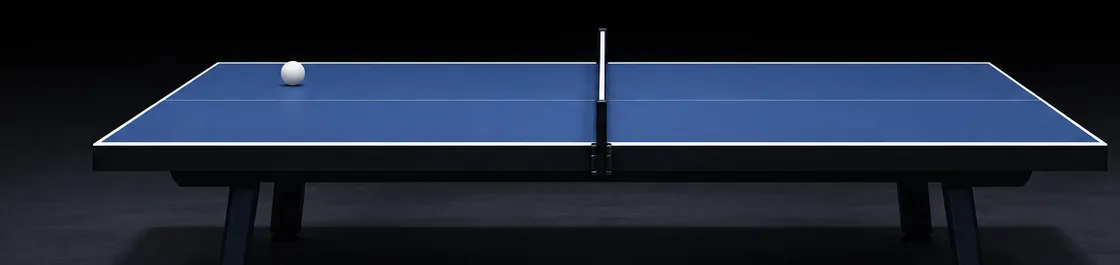
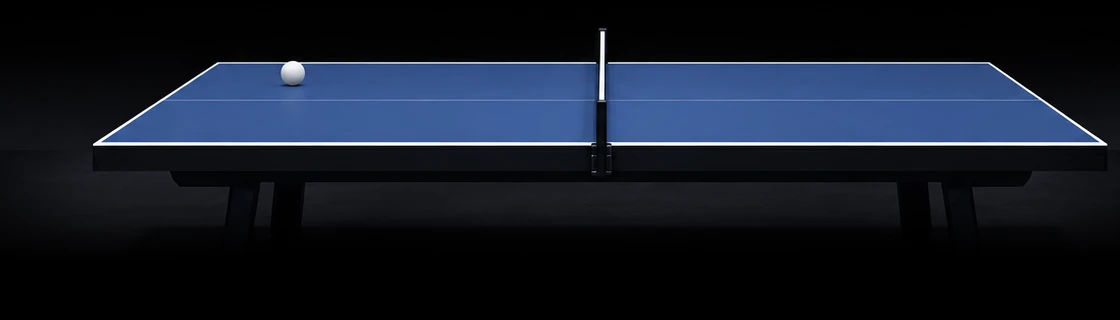
Fix spectator panel borders and table blending

diff --git a/src/views/game/GameSpectate.vue b/src/views/game/GameSpectate.vue
@@ -330,6 +330,7 @@ export default {
   align-items: stretch;
   margin-top: 14px;
   background: #11121a;
+  border: 1px solid #262833;
   border-radius: 14px;
   overflow: hidden;
 }
@@ -340,20 +341,17 @@ export default {
   display: flex;
   align-items: center;
   gap: 22px;
-  border: 1px solid transparent;
+  position: relative;
 }
 
 .spectate-player-home {
-  border-left: 3px solid transparent;
 }
 
 .spectate-player-away {
   justify-content: flex-end;
-  border-right: 3px solid transparent;
 }
 
 .spectate-player.is-serving {
-  border-color: rgba(38, 154, 71, 0.65);
   background: linear-gradient(
     90deg,
     rgba(38, 154, 71, 0.08),
@@ -367,6 +365,24 @@ export default {
     rgba(38, 154, 71, 0.08),
     rgba(38, 154, 71, 0)
   );
+}
+
+.spectate-player.is-serving::before {
+  content: "";
+  position: absolute;
+  top: 18px;
+  bottom: 18px;
+  width: 3px;
+  border-radius: 3px;
+  background: #269a47;
+}
+
+.spectate-player-home.is-serving::before {
+  left: 0;
+}
+
+.spectate-player-away.is-serving::before {
+  right: 0;
 }
 
 .player-avatar {
@@ -425,8 +441,8 @@ export default {
 .spectate-current {
   min-height: 168px;
   padding: 18px 24px 20px;
-  border-left: 1px solid #262833;
-  border-right: 1px solid #262833;
+  border-left: 1px solid #20222b;
+  border-right: 1px solid #20222b;
   display: flex;
   flex-direction: column;
   justify-content: center;
@@ -558,7 +574,7 @@ export default {
 }
 
 .set-card.current {
-  border-color: #5a6070;
+  border-color: #444955;
   background: #20222b;
 }
 
@@ -586,9 +602,11 @@ export default {
 }
 
 .spectate-table-stage {
-  margin: 28px auto 0;
+  margin: 24px auto 0;
   max-width: 1120px;
-  overflow: hidden;
+  overflow: visible;
+  background: transparent;
+  line-height: 0;
 }
 
 .spectate-table-image {
@@ -600,7 +618,7 @@ export default {
 .spectator-panel {
   width: fit-content;
   min-width: 180px;
-  margin: 10px auto 0;
+  margin: -18px auto 0;
   padding: 9px 16px;
   display: flex;
   align-items: center;
